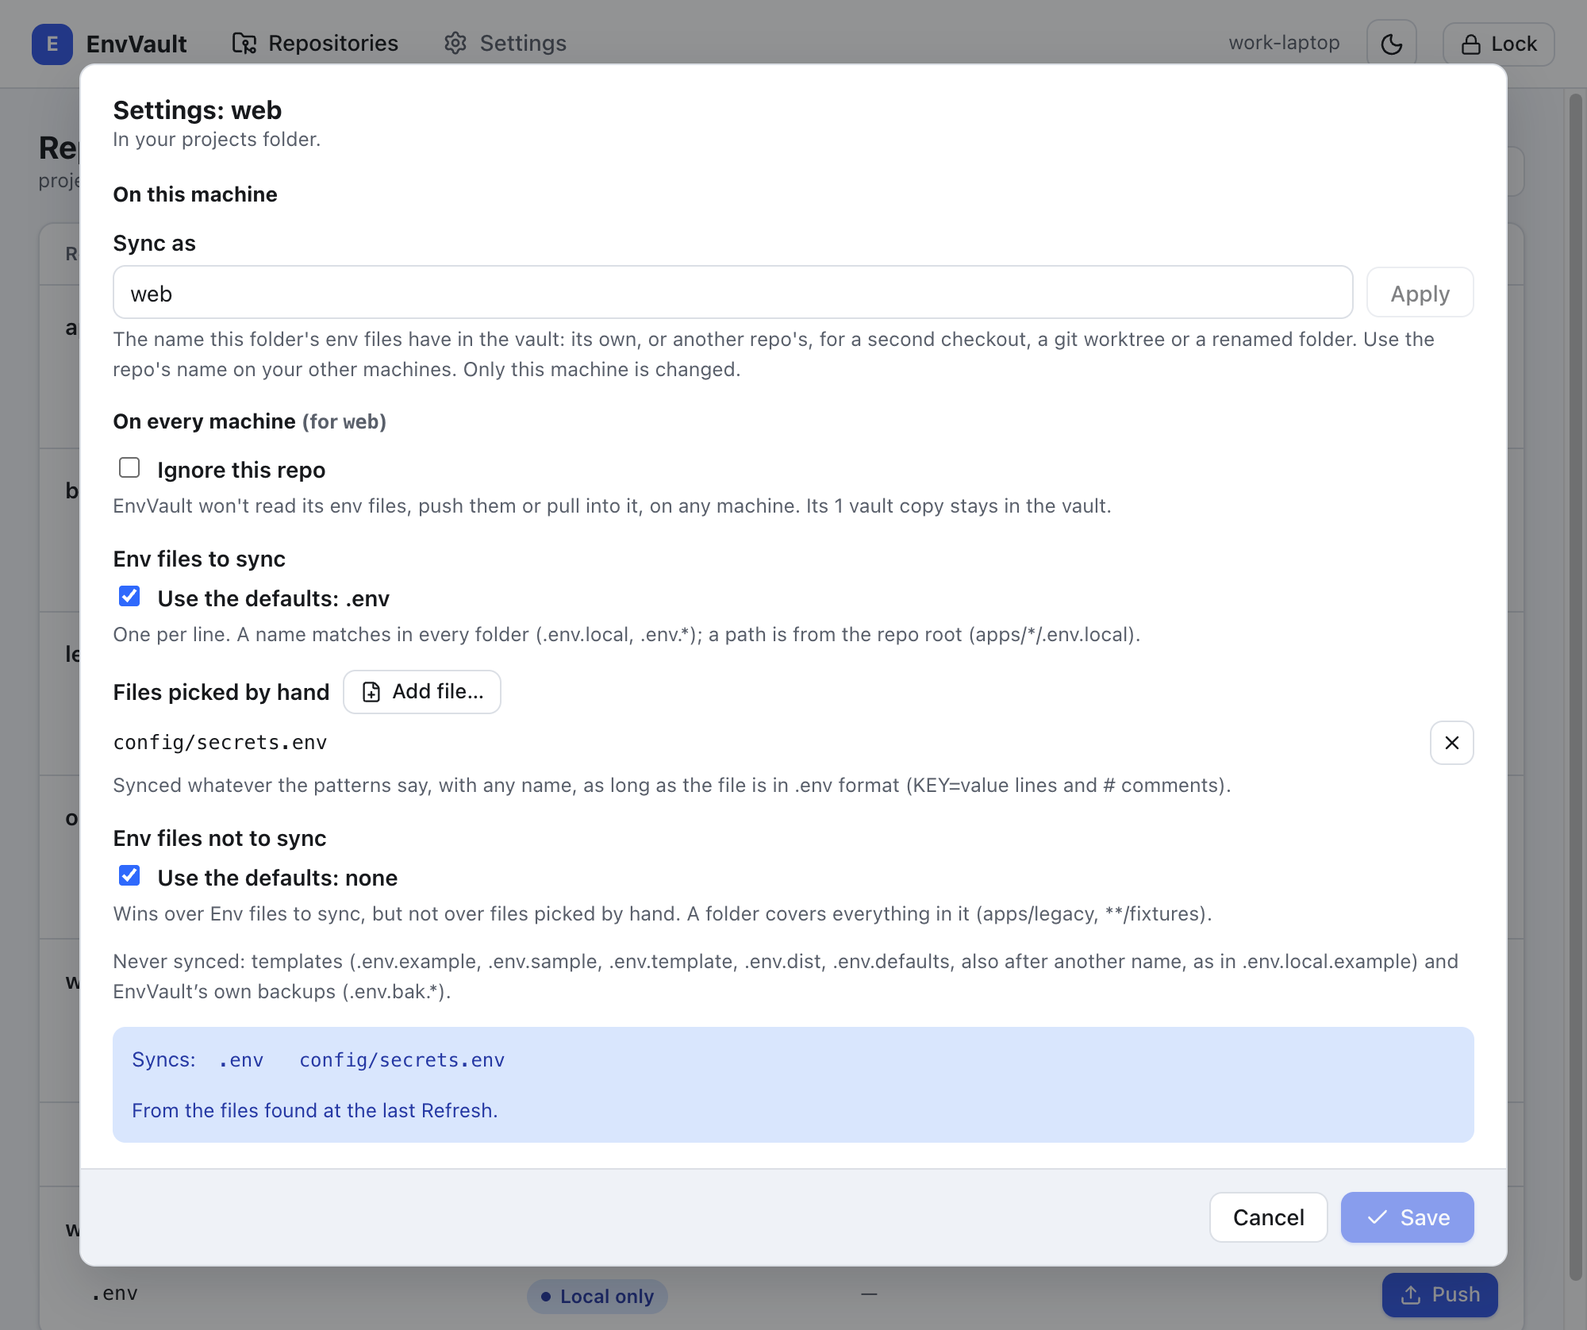
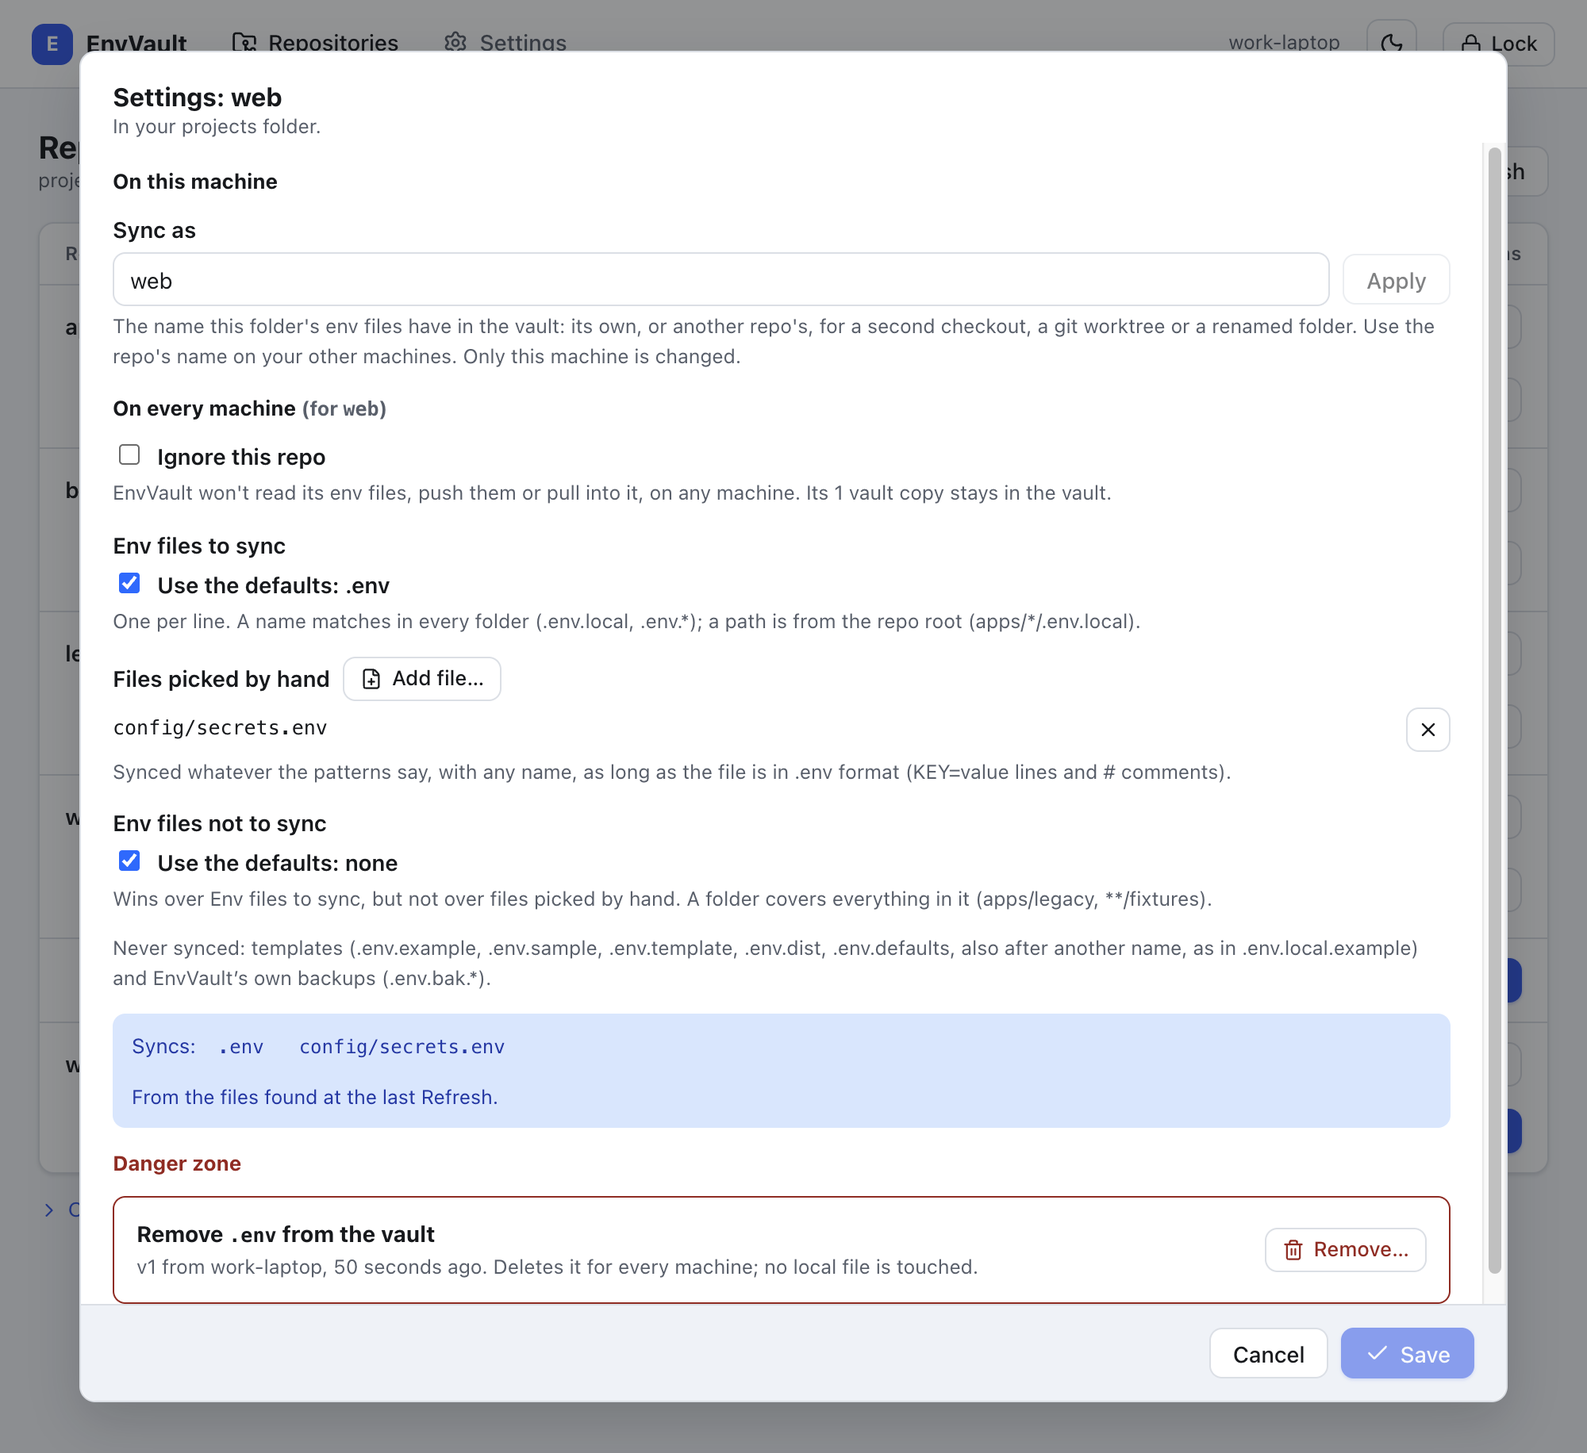
feat(ui): group repos only in the vault; remove vault copies in a danger zone
- Repositories: repos with vault copies but no folder in the projects
  folder move to a collapsed "Only in the vault" group under the table,
  each with Settings…
- Rows no longer have Remove…. A repo's Settings dialog ends with a
  Danger zone (red heading and border, red outline buttons) listing each
  vault copy with Remove…, which opens the existing RemoveDialog. The
  list reloads after a removal, and the dialog closes when a repo only
  in the vault loses its last copy. Ignored repos are told to stop
  ignoring first, as main refuses those removals.
- README: status table, repo settings and removing a vault copy;
  repos.png and repo-settings.png retaken

diff --git a/src/renderer/src/components/RepoSettingsDialog.vue b/src/renderer/src/components/RepoSettingsDialog.vue
@@ -1,14 +1,25 @@
 <script setup lang="ts">
 // A repo's settings. Which name it syncs as is this machine's alone; whether
 // it's ignored and which env files it syncs are kept in the vault, by that
-// name, for every machine. Patterns and names only: no values here.
+// name, for every machine. Patterns and names only: no values here. Its
+// Danger zone removes vault copies (RemoveDialog confirms each one).
 import { computed, onMounted, ref, watch } from 'vue'
-import { Check, FilePlus, X } from 'lucide-vue-next'
+import { Check, FilePlus, Trash2, X } from 'lucide-vue-next'
 import { MAX_PICKED_FILES, RESERVED_NOTE, isIncluded } from '../../../shared/envrules'
-import type { RepoInfo, RepoRules } from '../../../shared/types'
+import type { RepoInfo, RepoRow, RepoRules } from '../../../shared/types'
 import { call, loadRepos, store, toast } from '../store'
-import { patternLines, patternListProblems, repoKey, repoNameProblem, syncsAs } from '../status'
+import {
+  absoluteTime,
+  patternLines,
+  patternListProblems,
+  relativeTime,
+  repoKey,
+  repoNameProblem,
+  rowKey,
+  syncsAs
+} from '../status'
 import PatternList from './PatternList.vue'
+import RemoveDialog from './RemoveDialog.vue'
 
 const props = defineProps<{ repo: RepoInfo }>()
 const emit = defineEmits<{ close: [] }>()
@@ -137,6 +148,23 @@ async function addFile(): Promise<void> {
 
 function removeFile(path: string): void {
   files.value = files.value.filter((f) => f !== path)
+}
+
+// ---- danger zone ----
+
+/** The repo's vault copies that can be removed: readable ones, with a path. */
+const vaultCopies = computed(() =>
+  store.repos.filter(
+    (r) => repoKey(r) === repoKey(info.value) && r.vault !== null && r.path !== null
+  )
+)
+const removing = ref<RepoRow | null>(null)
+
+async function removed(): Promise<void> {
+  removing.value = null
+  await loadRepos()
+  // A repo only in the vault is gone with its last copy.
+  if (!store.repoInfo.some((r) => repoKey(r) === repoKey(props.repo))) emit('close')
 }
 
 async function save(): Promise<void> {
@@ -320,6 +348,41 @@ watch(
         </template>
       </section>
 
+      <section
+        v-if="saved.ignored ? info.copies > 0 : vaultCopies.length > 0"
+        class="stack danger-zone"
+      >
+        <h3>Danger zone</h3>
+        <div class="danger-box">
+          <p v-if="saved.ignored" class="danger-item muted small">
+            Stop ignoring this repo to remove its vault copies.
+          </p>
+          <div v-for="row in vaultCopies" v-else :key="rowKey(row)" class="danger-item">
+            <div class="grow">
+              <strong
+                >Remove <code>{{ row.path }}</code> from the vault</strong
+              >
+              <p v-if="row.vault" class="muted small">
+                v{{ row.vault.version }} from {{ row.vault.updatedBy }},
+                <span :title="absoluteTime(row.vault.updatedAt)">{{
+                  relativeTime(row.vault.updatedAt)
+                }}</span
+                >. Deletes it for every machine; no local file is touched.
+              </p>
+            </div>
+            <button
+              type="button"
+              class="btn btn-sm btn-danger-outline"
+              :disabled="busy"
+              @click="removing = row"
+            >
+              <Trash2 />
+              Remove…
+            </button>
+          </div>
+        </div>
+      </section>
+
       <p v-if="error" class="notice notice-error" role="alert">{{ error }}</p>
     </div>
 
@@ -336,5 +399,13 @@ watch(
         Save
       </button>
     </div>
+
+    <RemoveDialog
+      v-if="removing"
+      :key="rowKey(removing)"
+      :repo="removing"
+      @close="removing = null"
+      @done="removed"
+    />
   </dialog>
 </template>

diff --git a/src/renderer/src/views/ReposView.vue b/src/renderer/src/views/ReposView.vue
@@ -36,6 +36,7 @@ const removing = ref<RepoRow | null>(null)
 const configuring = ref<RepoInfo | null>(null)
 const showNoEnv = ref(false)
 const showIgnored = ref(false)
+const showVaultOnly = ref(false)
 const busy = ref(false)
 
 const rowsOf = computed(() => {
@@ -52,8 +53,12 @@ const noEnv = computed(() =>
   )
 )
 const ignored = computed(() => store.repoInfo.filter((r) => r.ignored))
+/** Repos with vault copies but no folder in the projects folder. */
+const vaultOnly = computed(() =>
+  store.repoInfo.filter((r) => !r.ignored && !r.local && !noEnv.value.includes(r))
+)
 const listed = computed(() => {
-  const apart = new Set(noEnv.value.map(repoKey))
+  const apart = new Set([...noEnv.value, ...vaultOnly.value].map(repoKey))
   return {
     rows: store.repos.filter((r) => !apart.has(repoKey(r))),
     repos: store.repoInfo.filter((r) => !r.ignored && !apart.has(repoKey(r)))
@@ -202,7 +207,6 @@ onMounted(async () => {
         @action="onAction"
         @edit="editing = $event"
         @mini-repo="enterMiniRepo"
-        @remove="removing = $event"
         @settings="configuring = $event"
       />
     </div>
@@ -251,6 +255,44 @@ onMounted(async () => {
                     Ignore
                   </button>
                   <button type="button" class="btn btn-sm" @click="configuring = repo">
+                    <Settings2 />
+                    Settings…
+                  </button>
+                </div>
+              </td>
+            </tr>
+          </tbody>
+        </table>
+      </div>
+    </section>
+
+    <section v-if="store.reposLoaded && vaultOnly.length" class="repo-section">
+      <button
+        type="button"
+        class="btn-link small"
+        :aria-expanded="showVaultOnly"
+        @click="showVaultOnly = !showVaultOnly"
+      >
+        <ChevronDown v-if="showVaultOnly" />
+        <ChevronRight v-else />
+        Only in the vault ({{ vaultOnly.length }}) · {{ showVaultOnly ? 'Hide' : 'Show' }}
+      </button>
+      <div v-if="showVaultOnly" class="card">
+        <table class="table">
+          <tbody>
+            <tr v-for="repo in vaultOnly" :key="repoKey(repo)" class="row-dim">
+              <td>
+                <div class="repo-name">{{ repo.name }}</div>
+                <div class="small">{{ copies(repo.copies) }}, not in your projects folder</div>
+              </td>
+              <td class="col-actions">
+                <div class="row">
+                  <button
+                    type="button"
+                    class="btn btn-sm"
+                    title="Its settings, and removing its vault copies"
+                    @click="configuring = repo"
+                  >
                     <Settings2 />
                     Settings…
                   </button>

diff --git a/src/renderer/src/components/RepoTable.vue b/src/renderer/src/components/RepoTable.vue
@@ -3,7 +3,7 @@
 // row per file (even when it is just the root .env); files found in folders
 // that nobody has pushed are listed apart, collapsed until asked for.
 import { computed } from 'vue'
-import { Pencil, PictureInPicture2, Settings2, Trash2 } from 'lucide-vue-next'
+import { Pencil, PictureInPicture2, Settings2 } from 'lucide-vue-next'
 import type { RepoInfo, RepoRow } from '../../../shared/types'
 import { ACTION_ICON } from '../icons'
 import {
@@ -25,7 +25,6 @@ defineEmits<{
   action: [row: RepoRow, action: RowAction]
   edit: [row: RepoRow]
   miniRepo: [rows: RepoRow[]]
-  remove: [row: RepoRow]
   settings: [repo: RepoInfo]
 }>()
 
@@ -58,12 +57,6 @@ const lines = (g: Group): Line[] => g.files.map((row) => ({ row }))
 
 const storedTitle = (row: RepoRow): string | undefined =>
   row.storedName ? `Stored in the vault as ${row.storedName}` : undefined
-
-/** Only in the vault here, or not synced by the repo's settings: there to be removed. */
-const removable = (row: RepoRow): boolean =>
-  (row.status === 'vault-only' || row.status === 'excluded') &&
-  row.vault !== null &&
-  row.path !== null
 
 /** The group's files that mini mode can show: the local ones with a path. */
 const miniFiles = (g: Group): RepoRow[] =>
@@ -109,7 +102,7 @@ const hasRepoMini = (g: Group): boolean => miniFiles(g).length > 0
               v-if="g.repo"
               type="button"
               class="btn btn-sm"
-              title="Which env files it syncs, the name it syncs as, or ignore it"
+              title="Which env files it syncs, the name it syncs as, ignore it, or remove vault copies"
               @click="$emit('settings', g.repo)"
             >
               <Settings2 />
@@ -165,16 +158,6 @@ const hasRepoMini = (g: Group): boolean => miniFiles(g).length > 0
             >
               <Pencil />
               Edit
-            </button>
-            <button
-              v-if="removable(line.row)"
-              type="button"
-              class="btn btn-sm"
-              title="Delete the vault copy. No local file is touched."
-              @click="$emit('remove', line.row)"
-            >
-              <Trash2 />
-              Remove…
             </button>
           </div>
         </td>

diff --git a/src/renderer/src/assets/main.css b/src/renderer/src/assets/main.css
@@ -206,6 +206,17 @@ code,
   color: var(--surface);
 }
 
+/* A dangerous action that isn't the dialog's answer: red only on hover (see .danger-zone). */
+.btn-danger-outline {
+  color: var(--danger-text);
+}
+
+.btn-danger-outline:hover:not(:disabled) {
+  border-color: var(--danger-text);
+  background: var(--danger-text);
+  color: var(--surface);
+}
+
 .btn-sm {
   height: 28px;
   padding: 0 10px;
@@ -1299,4 +1310,31 @@ fieldset.field > legend {
   .spinner {
     animation-duration: 2s;
   }
+}
+
+/* ---------- danger zone (repo settings) ---------- */
+
+.danger-zone h3 {
+  color: var(--danger-text);
+}
+
+.danger-box {
+  border: 1px solid var(--danger-text);
+  border-radius: 8px;
+}
+
+.danger-item {
+  display: flex;
+  align-items: center;
+  gap: 12px;
+  margin: 0;
+  padding: 12px 14px;
+}
+
+.danger-item + .danger-item {
+  border-top: 1px solid var(--border);
+}
+
+.danger-item p {
+  margin: 2px 0 0;
 }

diff --git a/src/renderer/src/status.ts b/src/renderer/src/status.ts
@@ -105,7 +105,7 @@ export const STATUS_HINT: Record<RowStatus, string> = {
     "Both sides changed the same key, or they differ and this machine can't tell which changed what.",
   error: 'Something is wrong with this repo or its vault copy.',
   excluded:
-    "In the vault, but this repo's settings don't sync it. Remove the vault copy, or change the settings."
+    "In the vault, but this repo's settings don't sync it. Change the settings, or remove the vault copy in the repo's Settings."
 }
 
 /** Which buttons a row offers (see the status table in the README). */

diff --git a/README.md b/README.md
@@ -44,17 +44,17 @@ The vault can also be a **private git repository** instead of a synced folder: t
 
 **Sync status** is three-way: local file, vault copy, and what this machine last synced. That separates "local newer", "vault newer" and changes on both sides. When both sides changed, EnvVault compares them with what this machine last synced (kept encrypted, see [Merging](#merging-and-resolving-conflicts)): changes to different keys are **Both changed** and merge with a review, and only the same key changed on both sides is a **conflict**. A vault copy whose version went backwards (a rollback) is shown as a conflict, never offered as a simple pull. The one exception is when it is byte-identical to your local file: then nothing would change either way, and it shows as in sync.
 
-| Status       | Meaning                                                                                                    | Action   |
-| ------------ | ---------------------------------------------------------------------------------------------------------- | -------- |
-| In sync      | Local and vault are byte-identical, apart from machine-specific values                                     | —        |
-| Local only   | Never pushed                                                                                               | Push     |
-| Local newer  | Only you changed it since the last sync                                                                    | Push     |
-| Vault newer  | Only another machine changed it                                                                            | Pull     |
-| Both changed | Both changed it since the last sync, but not the same keys                                                 | Merge…   |
-| Conflict     | The same key changed on both sides, or EnvVault can't tell what changed where, or the vault went backwards | Resolve… |
-| Vault only   | In the vault, but the repo isn't in your projects folder, or the file's folder isn't in it                 | Remove…  |
-| Excluded     | In the vault, but the repo's settings no longer sync it                                                    | Remove…  |
-| No .env      | Nothing on either side                                                                                     | —        |
+| Status       | Meaning                                                                                                    | Action               |
+| ------------ | ---------------------------------------------------------------------------------------------------------- | -------------------- |
+| In sync      | Local and vault are byte-identical, apart from machine-specific values                                     | —                    |
+| Local only   | Never pushed                                                                                               | Push                 |
+| Local newer  | Only you changed it since the last sync                                                                    | Push                 |
+| Vault newer  | Only another machine changed it                                                                            | Pull                 |
+| Both changed | Both changed it since the last sync, but not the same keys                                                 | Merge…               |
+| Conflict     | The same key changed on both sides, or EnvVault can't tell what changed where, or the vault went backwards | Resolve…             |
+| Vault only   | In the vault, but the repo isn't in your projects folder, or the file's folder isn't in it                 | Remove… in Settings… |
+| Excluded     | In the vault, but the repo's settings no longer sync it                                                    | Remove… in Settings… |
+| No .env      | Nothing on either side                                                                                     | —                    |
 
 Every push and pull shows a confirmation with the **key names** that will be added, removed or changed, never their values. Pushing over a vault copy that someone else changed needs an explicit "overwrite anyway". A pull first saves your current `.env` as `.env.bak.<timestamp>` and keeps the 3 newest backups per file, deleting older ones (change the number or turn backups off in **Settings → Sync**). Backups are plaintext like `.env`. Git ignores them, but other tools don't read `.gitignore`: add `.env.bak.*` to a `.dockerignore` too.
 
@@ -165,16 +165,18 @@ Click **Settings…** on a repo (on its row, or next to its name when it has sev
   - Never synced, whatever the patterns say: templates (`.env.example`, `.env.sample`, `.env.template`, `.env.dist`, `.env.defaults`, also after another name, as in `.env.local.example`) and EnvVault's own backups (`.env.bak.*`). Variants git tracks, such as a committed `.env.development`, aren't listed either: git already syncs them.
   - Variants such as `.env.local` often hold values that differ between machines. Sync them only where they don't, or mark those keys [machine-specific](#machine-specific-keys).
   - The dialog shows which files the patterns match, from what git found at the last Refresh. Changes apply at once.
-  - A vault copy the patterns no longer include stays in the vault, listed as **Excluded** with **Remove…**. It's never pushed, pulled or edited.
+  - A vault copy the patterns no longer include stays in the vault, listed as **Excluded**. It's never pushed, pulled or edited; remove it in the **Danger zone** below.
   - A variant's backups are named after it (`.env.bak.local.<timestamp>`) and kept apart from the `.env`'s. Its `.env.example` check is skipped. The pull dialog names the file (**Add .env.local to .gitignore**) and adds its own name.
 - **Files picked by hand:** **Add file…** opens your system's file picker in the repo, so you can sync a file the patterns don't cover, with any name (`config/secrets.env`, `.envrc`). Its content must be in `.env` format (`KEY=value` lines, `# comments` and blank lines): EnvVault refuses a JSON or YAML file when you pick it and when you push it. A picked file syncs whatever the patterns say; remove it from the list to stop. It can't be a template, one of git's own files (`.gitignore`) or more than 8 folders deep, and a repo can have up to 20. Pulls need it git-ignored like any env file (the pull dialog offers **Add secrets.env to .gitignore**, with its name), and its backups are named `.env.bak.@<name>.<timestamp>`, so `.env.bak.*` still covers them. Older versions of EnvVault don't sync picked files, and show their vault copies as saved by a newer EnvVault.
 
-  ![A repo's settings: a file picked by hand, config/secrets.env, synced along with .env](docs/repo-settings.png)
+  ![A repo's settings: a file picked by hand, config/secrets.env, synced along with .env, and the Danger zone with Remove… for the vault copy](docs/repo-settings.png)
 
 - **Ignore this repo:** EnvVault doesn't read its files, push them or pull into it, on any machine, and the command line refuses it. It moves to the collapsed **Ignored** list under the table, with **Stop ignoring**. Its vault copies stay.
 - **Sync as** (this machine only) is the name the folder's files have in the vault. Use it for a second checkout or a git worktree of a repo (`api-wt` syncing as `api`), or a folder you renamed. Each folder keeps its own sync status, so a push from one shows the other as Vault newer.
 
-Repos with no env files on either side are listed apart too, under **No env files**, with **Edit** (to start a vault copy), **Ignore** and **Settings…**.
+- **Danger zone**, at the bottom, in red: **Remove…** next to each of the repo's vault copies (see [Removing a vault copy](#removing-a-vault-copy)).
+
+Repos with no env files on either side are listed apart too, under **No env files**, with **Edit** (to start a vault copy), **Ignore** and **Settings…**. Repos that are only in the vault (not in your projects folder) are under **Only in the vault**, collapsed, each with **Settings…**.
 
 If the settings in the vault fail verification, EnvVault uses the built-in ones (every `.env` syncs, no repo is ignored) and offers **Reset settings…**. Settings saved by a newer EnvVault are left alone until you update this one.
 
@@ -191,8 +193,9 @@ Click **Edit** on a `.env` to change its vault copy in a table of keys and value
 
 ### Removing a vault copy
 
-Click **Remove…** on a Vault only row (a repo or package that's gone), or **Remove from vault…** in the editor, to delete a file's vault copy.
+To delete a file's vault copy, open the repo's **Settings…** and click **Remove…** next to it in the **Danger zone** at the bottom, or click **Remove from vault…** in the editor. For a repo that's gone from your projects folder, its **Settings…** is under **Only in the vault**, below the table.
 
+- Any vault copy of the repo can be removed there, not only Vault only and Excluded ones; the other machines then see theirs as never pushed.
 - It asks first, and deletes only the copy it showed you: if another machine changed it meanwhile, nothing is removed.
 - No `.env` is changed or deleted, on this machine or any other. A machine that still has the file shows it as never pushed and can push it again, which continues its version numbers.
 - A git vault keeps old copies in its history, and Drive keeps deleted files in its trash for a while.
